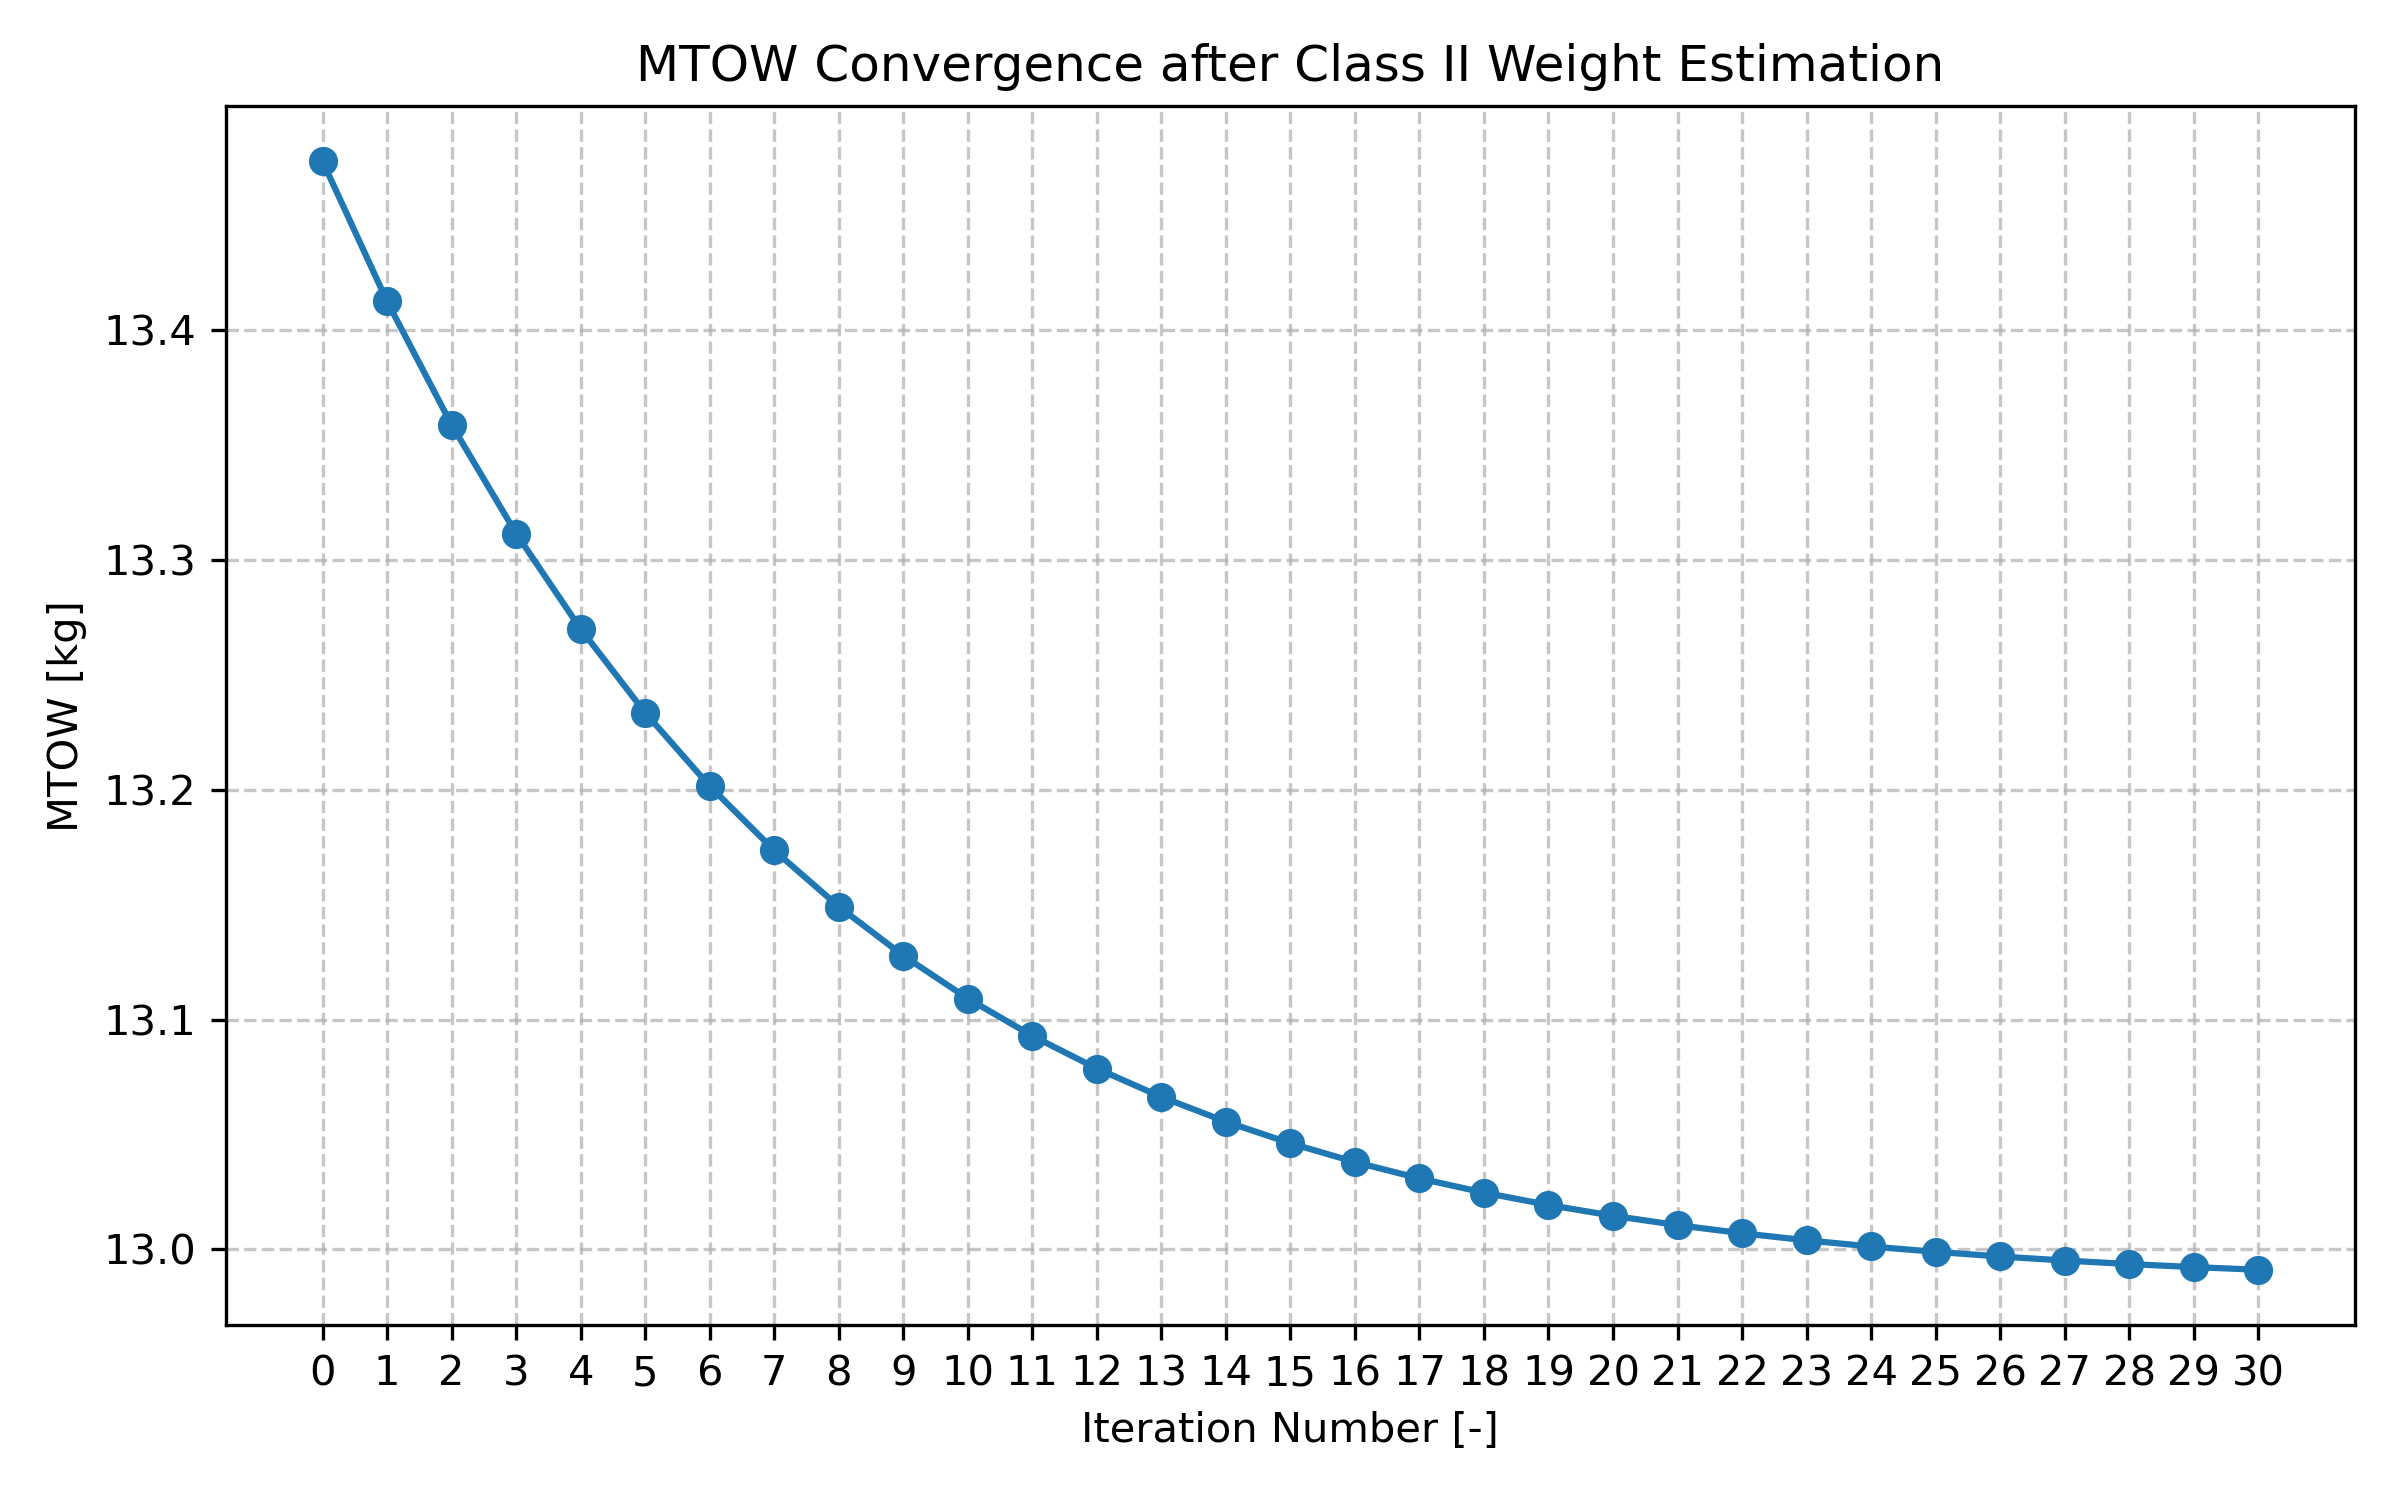
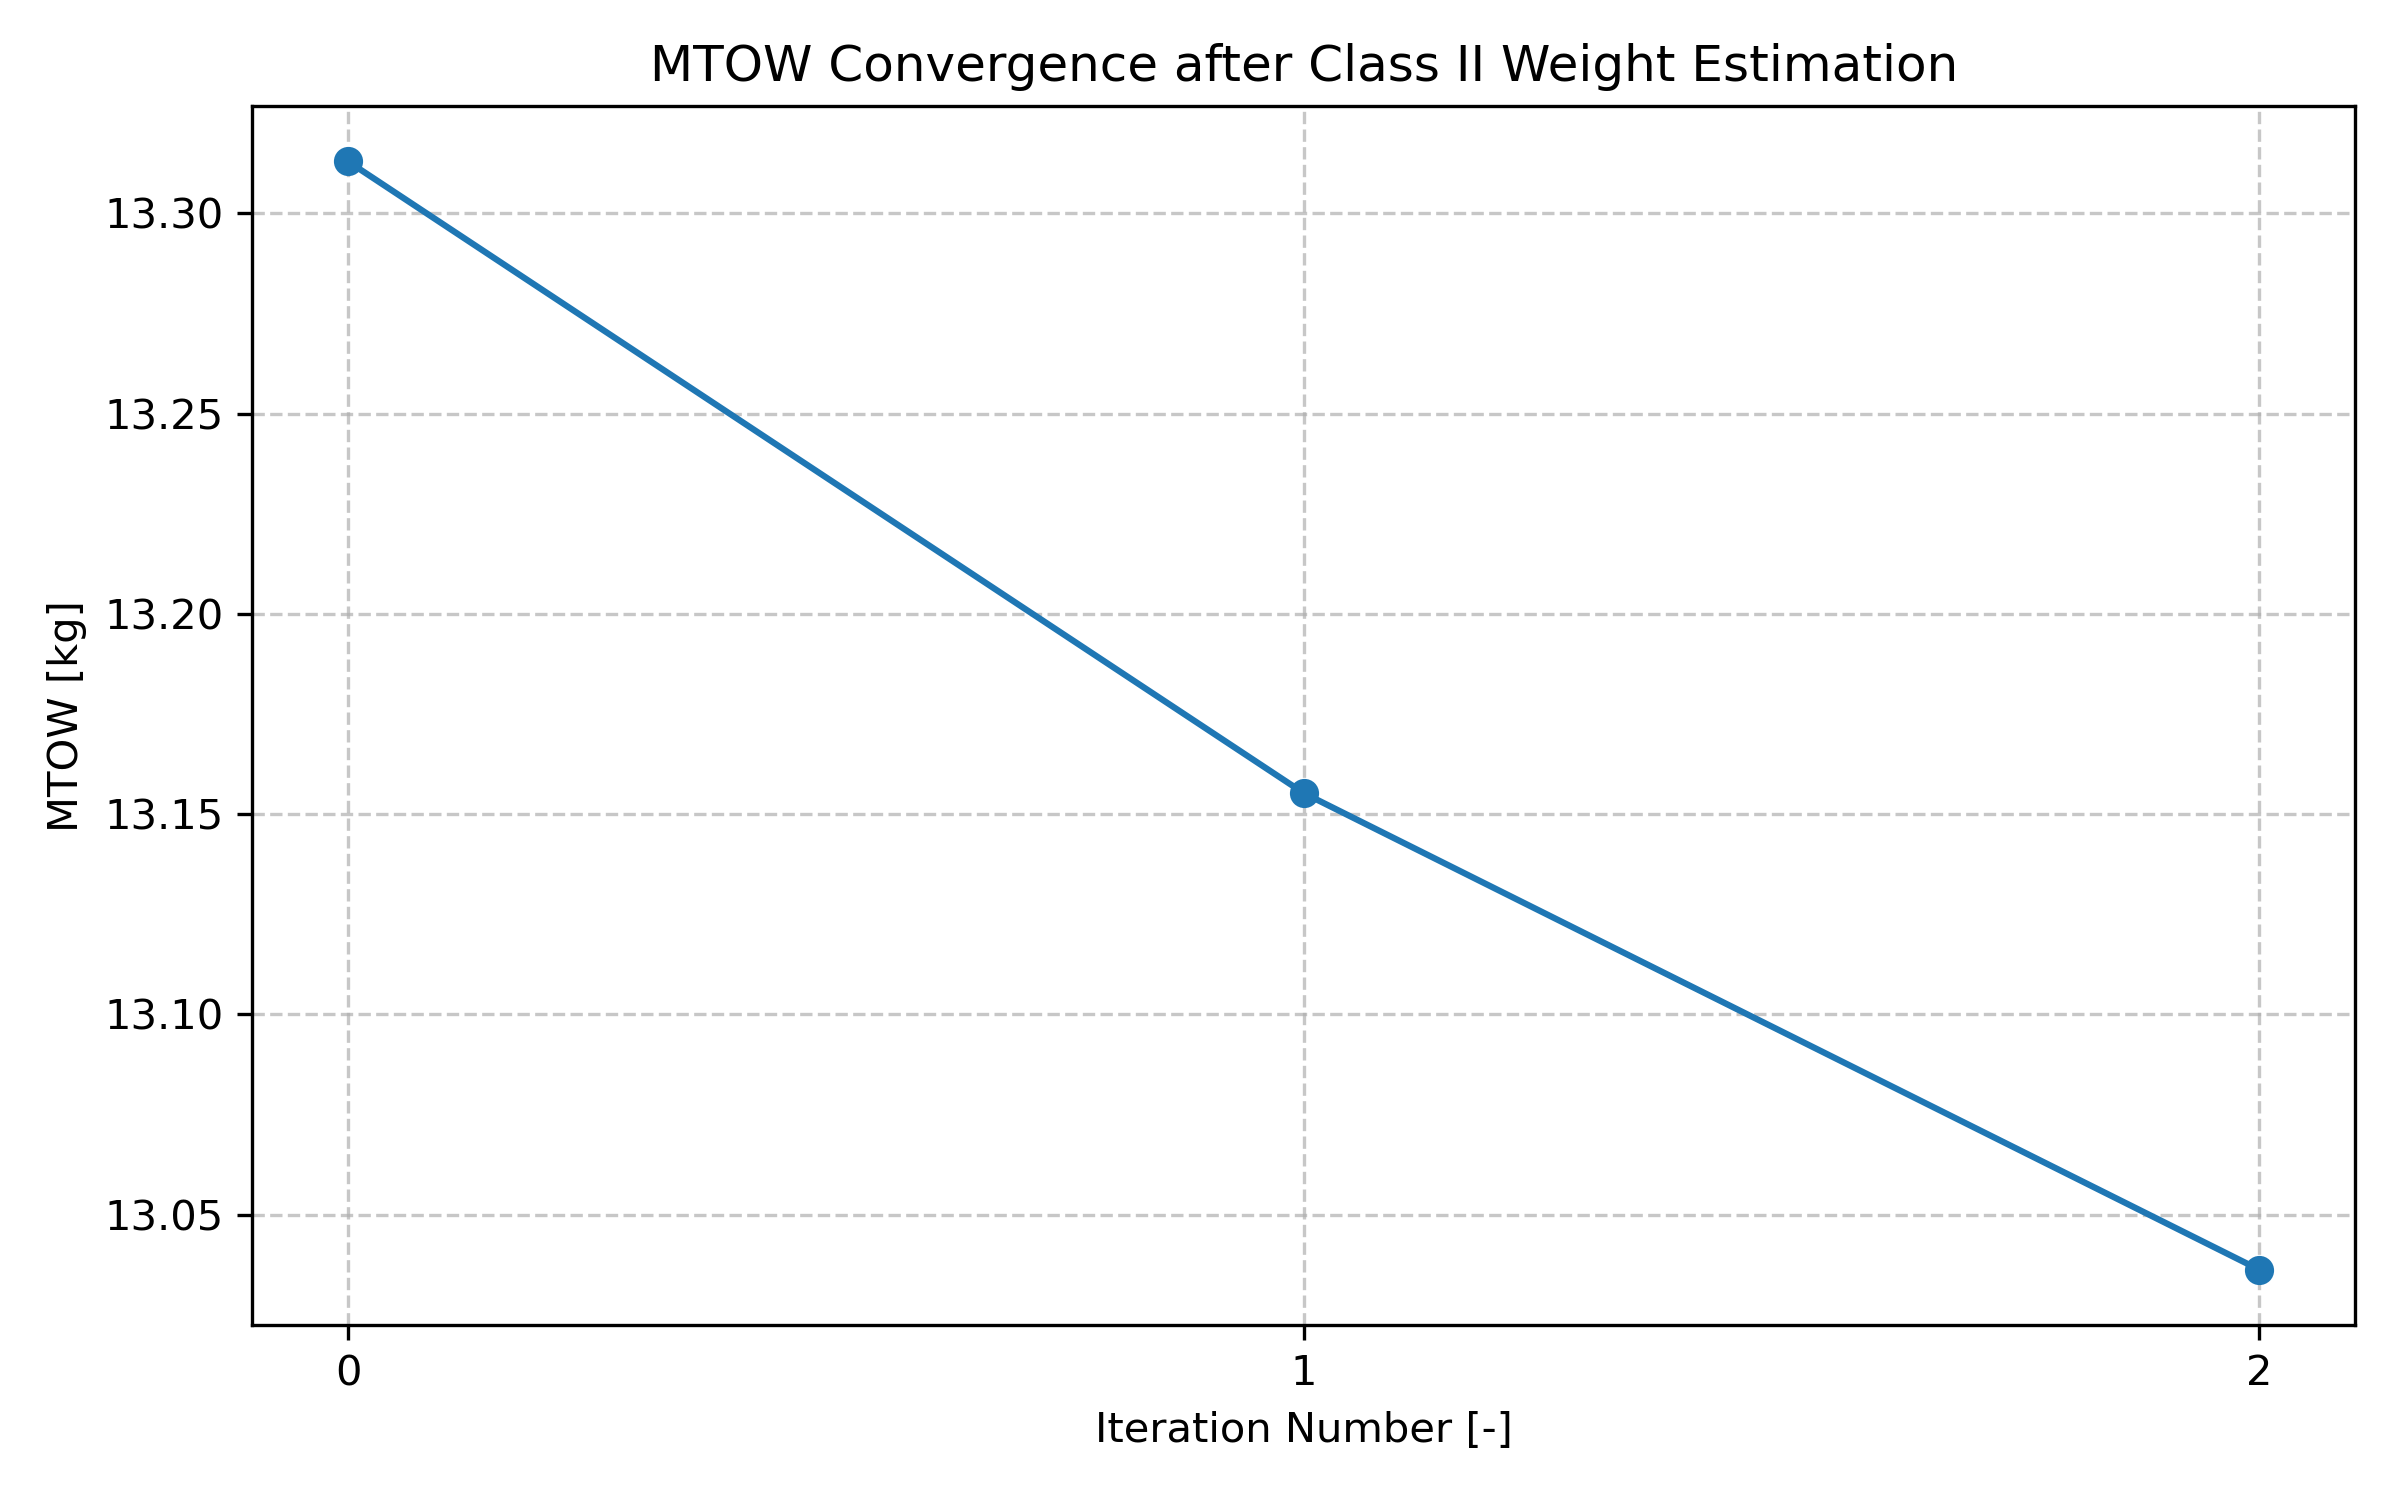
updating classes

diff --git a/prelim_des/performance.py b/prelim_des/performance.py
@@ -1,13 +1,17 @@
 from __future__ import annotations
 from typing import TYPE_CHECKING
-
+import logging
+import numpy as np
+import os
+import matplotlib.pyplot as plt
+import casadi as ca
 if TYPE_CHECKING:
     from prelim_des.drone import Drone
     from prelim_des.mission import Mission
 from constants import ρ, g
+from globals import main_dir
 from prelim_des.utils.import_toml import load_toml
 import utils.define_logging  # do not remove this line, it sets up logging configuration
-import logging
 
 toml = load_toml()
 
@@ -66,11 +70,9 @@ class Performance:
         return T
 
     def cruise_energy(self, range):
-        η_elec = toml["config"]["motor"]["eff_elec"]
-        η_prop = toml["config"]["propeller"]["eff_prop"]
-        L_over_D_cruise = toml["config"]["performance"]["L_over_D_cruise"]
+
         energy_cruise = (
-            self.drone.MTOW * range / (η_elec * η_prop * L_over_D_cruise / g)
+            self.drone.MTOW * range / (self.drone.propulsion.η_elec * self.drone.propulsion.η_prop * self.L_over_D_cruise / g)
         )  # Energy required for cruise
 
         return energy_cruise
@@ -128,3 +130,30 @@ class Performance:
         )  # Adjust for minimum battery level
 
         return mission_energy
+
+    def cruise_noise(self, baseline_noise=95, plot=False):
+        """
+        Calculate the noise level during cruise.
+        Parameters:
+        baseline_noise (float): Baseline noise level in dB at 1 m distance.
+        Returns:
+        float: Noise level during cruise in dB.
+        """
+        # Assuming a simple model where noise increases with speed
+        h = toml["config"]["mission"]["cruise_height"]
+        height_array = np.linspace(1, h, 100)
+        noise = 10*np.log10(10**(baseline_noise/10)/height_array**2)
+        
+        if plot:
+            plt.figure(figsize=(10, 6))
+            plt.plot(height_array, noise, label='Cruise Noise Level')
+            plt.title('Cruise Noise Level vs Height')
+            plt.xlabel('Height (m)')
+            plt.ylabel('Noise Level (dB)')
+            plt.grid()
+            plt.legend()
+            plt.tight_layout()
+            plot_path = os.path.join(main_dir, "prelim_des", "plots")
+            plt.savefig(os.path.join(plot_path, 'cruise_noise.png'), dpi=300)
+        return noise
+    

diff --git a/prelim_des/power.py b/prelim_des/power.py
@@ -24,6 +24,8 @@ class PropulsionSystem:
         self.motor = Motor()
         self.hor_prop = HorPropeller()
         self.ver_prop = VertPropeller()
+        self.η_elec = toml["config"]["motor"]["eff_elec"]
+        self.η_prop = toml["config"]["propeller"]["eff_prop"]
 
     def weight(self, energy_required: float = None) -> float:
         return (
@@ -63,7 +65,9 @@ class Motor:
         Returns:
         int: Number of motors required.
         """
-        return 8
+        n_vert = 8
+        n_hor = 2
+        return n_vert + n_hor  # Total number of motors (8 vertical + 2 horizontal)
 
     def weight(self):
         """
@@ -74,6 +78,15 @@ class Motor:
         return (
             0.16 * self.n_motors()
         )  # Placeholder value, should be replaced with a real calculation
+    
+    def max_thrust(self) -> float:
+        """
+        Placeholder method to calculate the maximum thrust produced by the motor.
+        Returns:
+        float: Maximum thrust including all motors in Newtons.
+        """
+        T_motor_AS2820_KV880_max_thrust = 24.153779 # N
+        return T_motor_AS2820_KV880_max_thrust * self.n_motors()  # N
 
 
 class VertPropeller:

diff --git a/prelim_des/elems.py b/prelim_des/elems.py
@@ -142,8 +142,10 @@ class Wing:
             * self.geom_AR**1.712
         )
 
+        weight_folding = toml["config"]["wing"]["wing_folding_weight"]
+        
         # Placeholder estimate for the wing weight based
-        return 0.4 * self.S + 0.06 * self.drone.MTOW
+        return 0.4 * self.S + 0.06 * self.drone.MTOW + weight_folding
 
     def plot_planform(self, save_plot=False, filename="wing_planform.png"):
         """
@@ -229,7 +231,7 @@ class Wing:
             folder = os.path.join("prelim_des", "plots", "weight_estimate")
             os.makedirs(folder, exist_ok=True)
             plt.savefig(os.path.join(folder, filename), dpi=300, bbox_inches="tight")
-        plt.show()
+        plt.close()
 
 
 class Fuselage:

diff --git a/prelim_des/drone.py b/prelim_des/drone.py
@@ -1,4 +1,5 @@
 import os
+import casadi as ca
 import matplotlib.pyplot as plt
 from globals import main_dir
 from prelim_des.power import PropulsionSystem
@@ -34,7 +35,6 @@ class Drone:
         self.landing_gear = LandingGear(self)
         self.structure = Structure(self)
         self.propulsion = PropulsionSystem(self)
-        # self.perf = Performance(self)
 
     def class_1_weight_estimate(self):
         """
@@ -148,3 +148,5 @@ class Drone:
             plt.close()
 
         return self.MTOW, self.OEW
+    
+

diff --git a/prelim_des/main_weight_estimation.py b/prelim_des/main_weight_estimation.py
@@ -27,6 +27,10 @@ drone.class_2_weight_estimate()
 # print("Drone MTOW after class 2 estimate:", drone.MTOW)
 # print("Drone OEW after class 2 estimate:", drone.OEW)
 
-drone.iterative_weight_estimate(plot=True, tolerance=0.0001)
+drone.iterative_weight_estimate(plot=True, tolerance=0.01)
+print("Drone MTOW after iterative estimate:", drone.MTOW)
+print(f"Wing surface area: {drone.wing.S}")
 
-# drone.wing.plot_planform(saveplot=True)
+drone.wing.plot_planform(save_plot=True)
+
+drone.perf.cruise_noise(plot=True)
